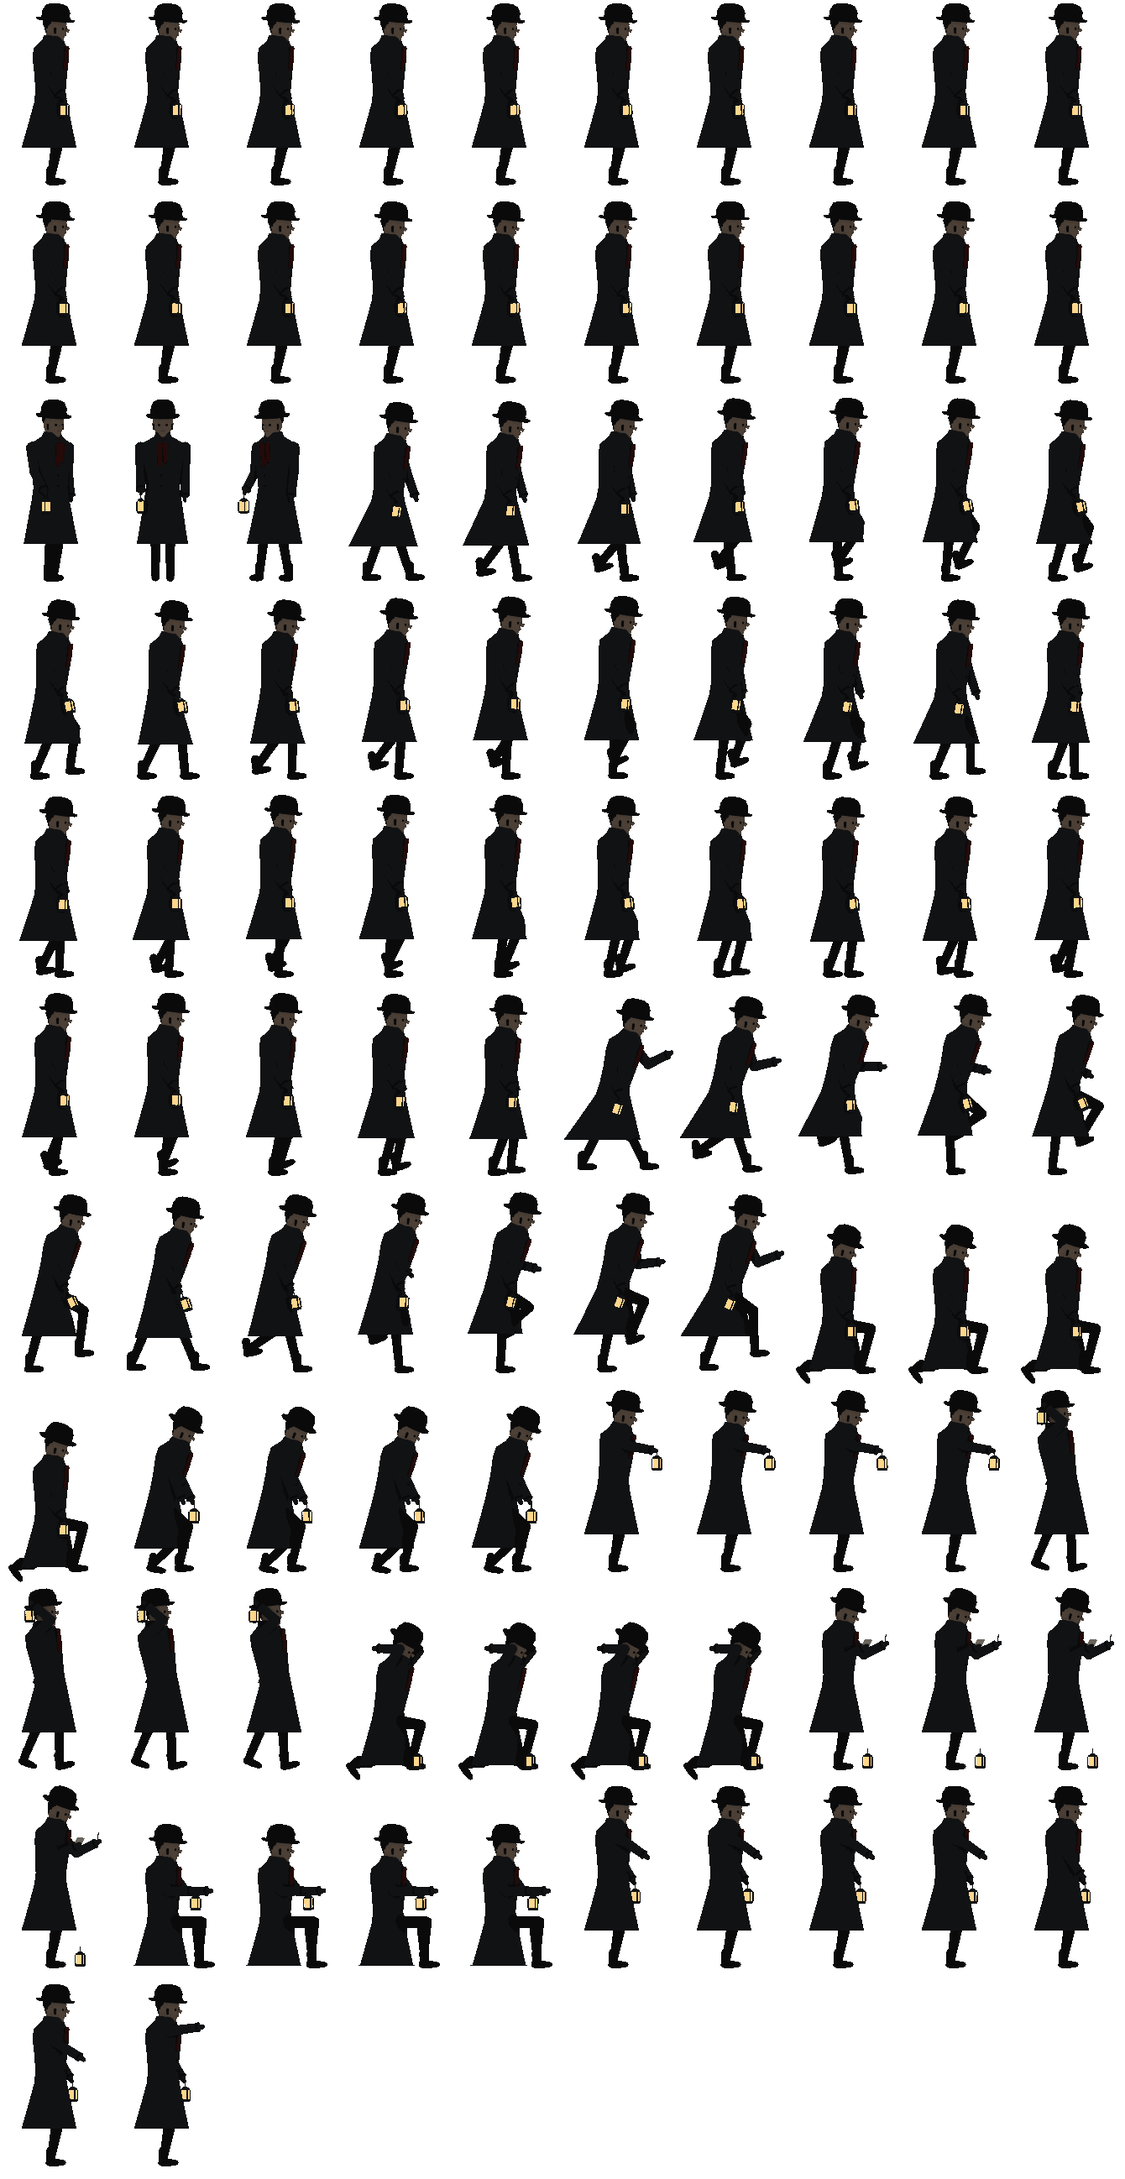
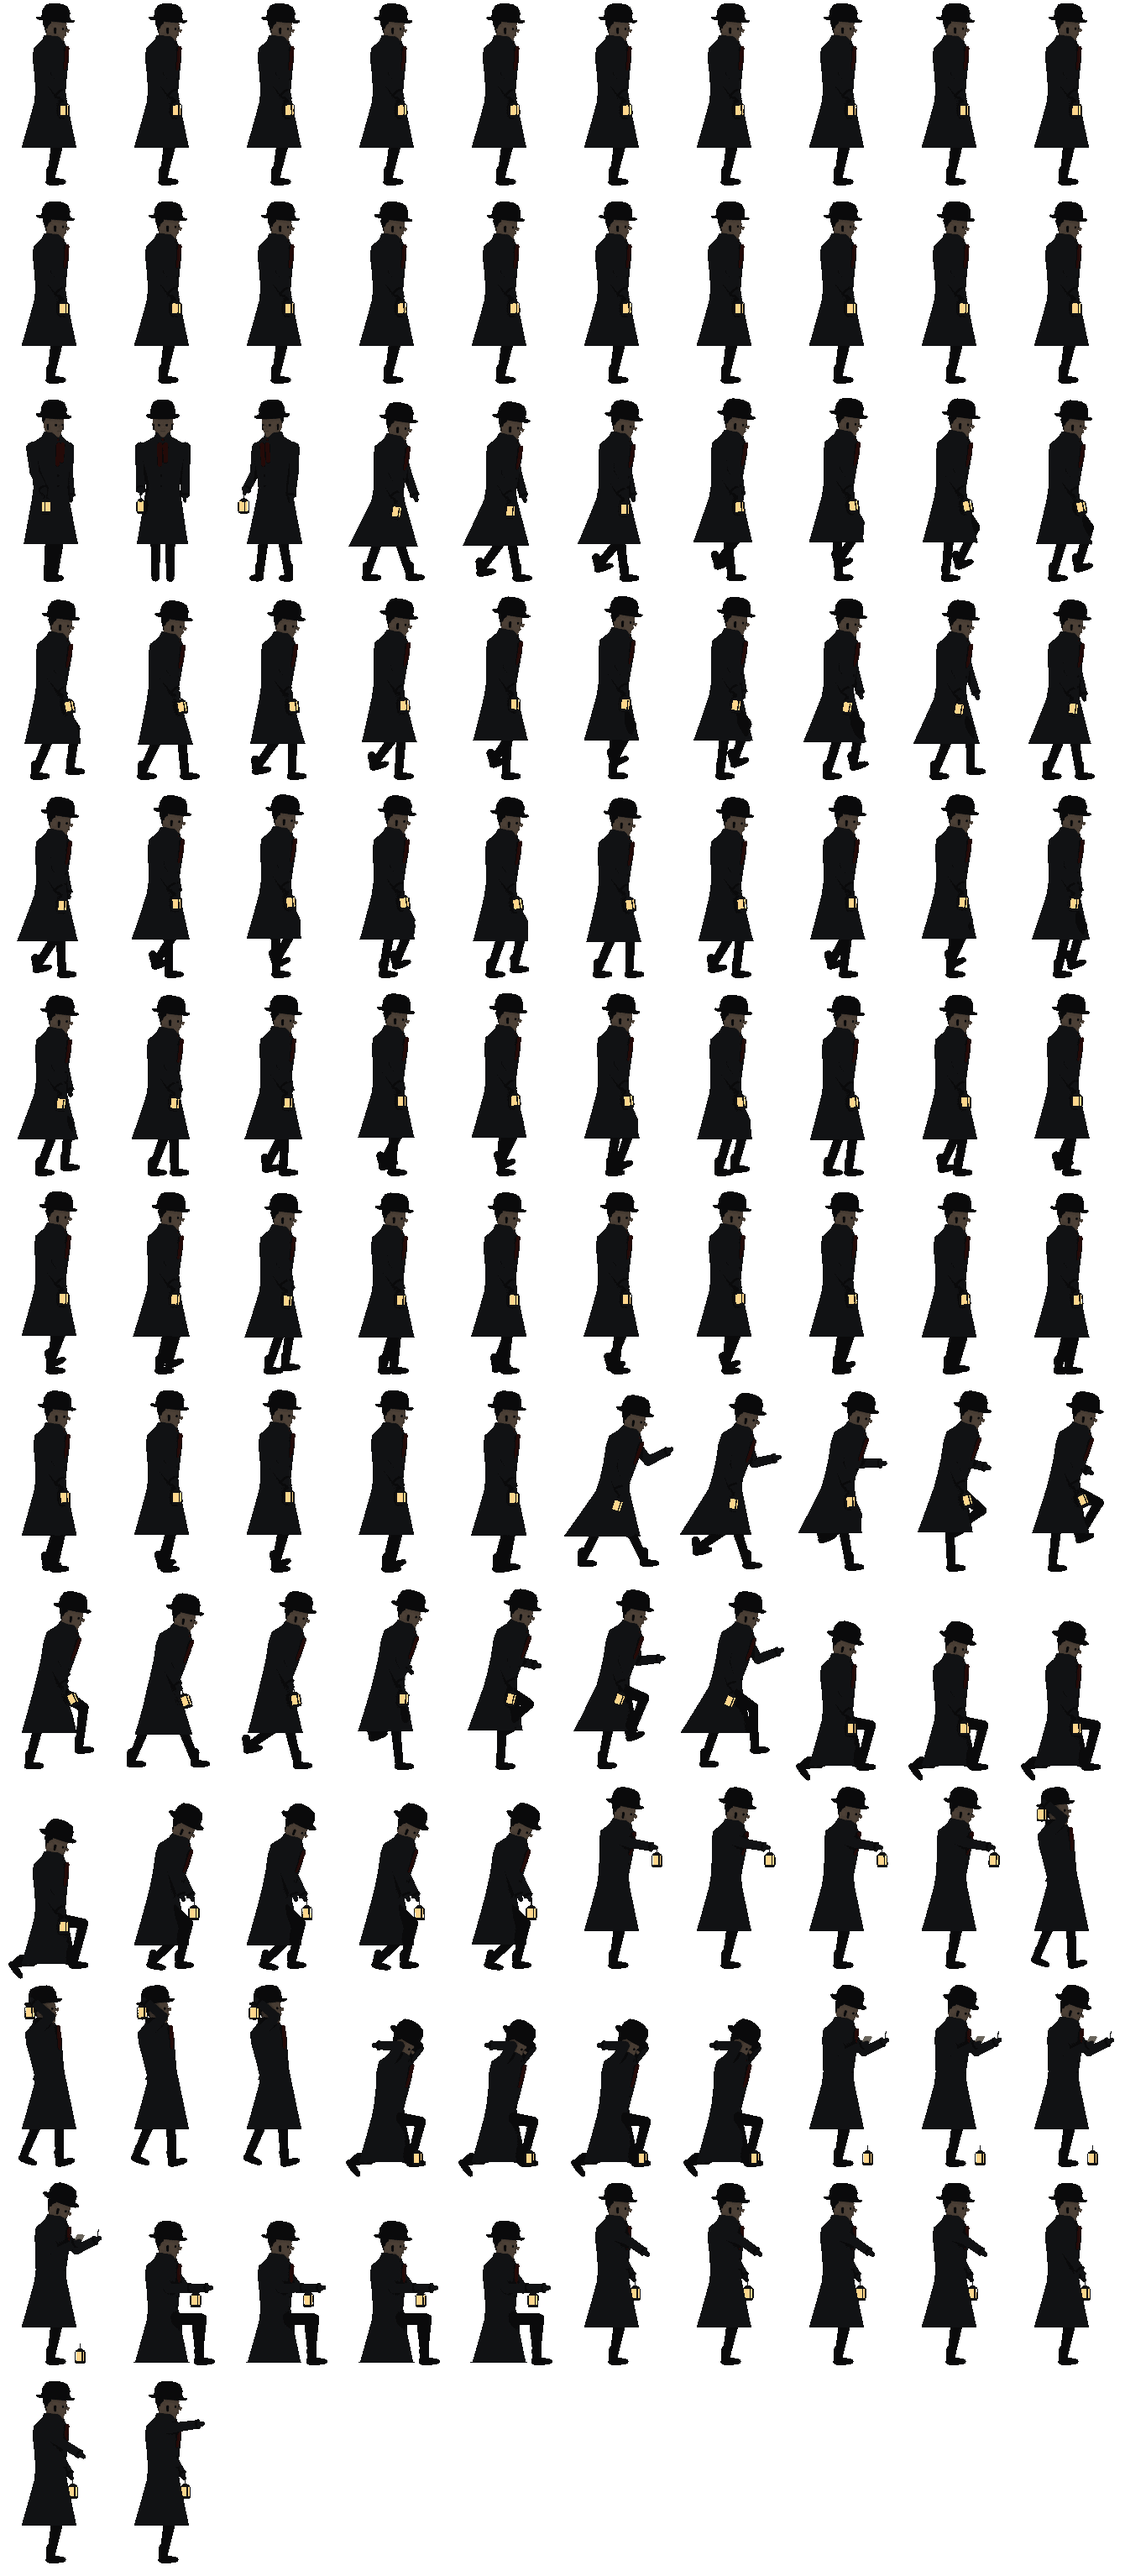
feat(characters): the mob modelled, Thomas eases in and out of his stride, the hands vision can be painted
Six neighbour figures stand, turn and scatter at a run for the nine people of the mob. Thomas
has four stride lengths, and Actor picks the one nearest how far into the walk he is, so
setting off and stopping shorten and lengthen the step instead of jumping to standing. The
hands vision uses closeups/hands.jpg when it exists (prompt in CLOSEUPS.md).

diff --git a/web/src/engine/actor.js b/web/src/engine/actor.js
@@ -18,6 +18,7 @@ const DEF = {
 const TAU = Math.PI * 2;
 const STRIDE = 50;           // distance the body travels in half a walk cycle (logical px at h = 200)
 const TURN = 0.17;           // seconds spent facing the viewer when turning round
+const GAIT = [['walk', 1], ['walk3', 0.75], ['walkh', 0.5], ['walkq', 0.25]];   // the stride lengths a model may have
 
 // a capsule between two points
 function limb(ctx, x0, y0, x1, y1, w0, w1) {
@@ -310,7 +311,14 @@ export class Actor {
       return { i: s + Math.min(n - 1, Math.floor(k * n)), flip: this.facing > 0, name: 'turn' };
     }
     const w = this.walkAmt ?? 0;
-    if (w > 0.2) return cyc((this.run || 0) > 0.5 && A.run ? 'run' : w > 0.7 ? 'walk' : 'walkh', this.phase / TAU);
+    if ((this.run || 0) > 0.5 && A.run && w > 0.2) return cyc('run', this.phase / TAU);
+    if (w > 0.12) {
+      // the stride rendered nearest to how far into the walk the actor is: setting off and stopping
+      // lengthen and shorten it a step at a time
+      let best = null;
+      for (const [n, a] of GAIT) if (A[n] && (!best || Math.abs(a - w) < Math.abs(best[1] - w))) best = [n, a];
+      if (best) return cyc(best[0], this.phase / TAU);
+    }
     return (this.talking && cyc('talk', gesture)) || cyc('idle', breath);
   }
 

diff --git a/web/src/engine/model.js b/web/src/engine/model.js
@@ -39,13 +39,16 @@ export function releaseModels(inUse) {
 }
 
 // Who is played by which model (tools/blender/cast.py). The constables share one figure; actors
-// not listed (the neighbours) stay painted. The victims are looked up by their corpse key.
+// not listed stay painted. The victims are looked up by their corpse key.
 // ?procedural paints everyone, for comparison.
 const CAST = {
   Thomas: 'thomas', Pike: 'pike', Greaves: 'greaves', Wexley: 'wexley', Viuda: 'viuda', Joven: 'joven',
   Brennan: 'brennan', Wren: 'wren', Neil: 'constable', Long: 'constable', Poli0: 'constable', Poli1: 'constable',
   Poli2: 'constable', Watkins: 'city', Agente: 'city', Morris: 'morris', Chico: 'chico', Amelia: 'amelia',
   polly: 'polly', annie: 'annie', kate: 'kate',
+  // the mob at the knackers' yard: nine neighbours, six figures
+  Vecino0: 'vecino_cap', Vecino1: 'vecino_bowler', Vecino2: 'vecino_bare', Vecino3: 'vecina_shawl', Vecino4: 'vecino_cap',
+  Vecino5: 'vecino_bowler', Vecino6: 'vecino_cap', Vecino7: 'vecina_bonnet', Vecino8: 'vecino_big',
 };
 const painted = typeof location !== 'undefined' && /[?&]procedural\b/.test(location.search || '');
 

diff --git a/web/src/art/bodies.js b/web/src/art/bodies.js
@@ -343,7 +343,9 @@ function shade_(hex) {
 // A flash of what he does not remember: gloved hands, a blade, the wet street.
 export function paintVision(ctx, W, H, kind) {
   ctx.fillStyle = '#0a0202'; ctx.fillRect(0, 0, W, H);
-  if (kind === 'hands') {
+  const pic = kind === 'hands' && closeupFor('hands');
+  if (pic) ctx.drawImage(pic, 0, 0, W, H);   // the painting (CLOSEUPS.md), under the same red vignette
+  else if (kind === 'hands') {
     pool(ctx, W / 2, H * 0.72, 380, 120, 9, false);
     for (const [x, y, rot] of [[W * 0.36, H * 0.48, 0.3], [W * 0.62, H * 0.5, Math.PI - 0.3]]) {
       ctx.save(); ctx.translate(x, y); ctx.rotate(rot);

diff --git a/web/tools/blender/figure.py b/web/tools/blender/figure.py
@@ -33,7 +33,7 @@ DEF = dict(h=200, hat='bowler', hatColor='#121316', coat='#26282b', coatLen=0.78
            sideburns=False, collarUp=False, buttons='single', belt=False, tails=False, rolled=False, patches=False,
            shawl=None, waistcoat=None, chain=False, number=False, bustle=False, lapel='#d8cfbd', notebook=False,
            gloves=None, walk=False, run=False, reach=False, poses=[], base=None, idle=8, lying=None, eyesClosed=False,
-           cover=None)
+           cover=None, talk=True, gait=((('walk', 1.0, 16), ('walkh', 0.5, 16))), runFrames=12)
 C = {**DEF, **CAST[WHO]}
 
 TAU, PI = math.tau, math.pi
@@ -712,14 +712,17 @@ elif base:
     ANIMS += [(base, 4, lambda i, n: pose(t=i / n * BREATH, P=base)),
               (base + '_talk', 8, lambda i, n: pose(t=i / n * BREATH, P=base, talk=i / n * TAU))]
 else:
-    ANIMS += [('idle', C['idle'], lambda i, n: pose(t=i / n * BREATH)),
-              ('talk', 8, lambda i, n: pose(t=i / n * GESTURE, talk=i / n * TAU)),
-              ('turn', 3, lambda i, n: pose(yaw=math.radians(55 + 35 * i)))]
+    ANIMS += [('idle', C['idle'], lambda i, n: pose(t=i / n * BREATH))]
+    if C['talk']:
+        ANIMS += [('talk', 8, lambda i, n: pose(t=i / n * GESTURE, talk=i / n * TAU))]
+    ANIMS += [('turn', 3, lambda i, n: pose(yaw=math.radians(55 + 35 * i)))]
 if C['walk'] and not C['lying']:
-    ANIMS += [('walk', 16, lambda i, n: pose(i / n * TAU, 1, 0, t=i / n)),
-              ('walkh', 16, lambda i, n: pose(i / n * TAU, 0.5, 0, t=i / n))]
+    # one cycle per stride length: Actor picks the nearest to how far into the walk it is, so starting
+    # and stopping shorten the stride step by step instead of jumping to standing
+    for name, w, frames in C['gait']:
+        ANIMS += [(name, frames, lambda i, n, w=w: pose(i / n * TAU, w, 0, t=i / n))]
 if C['run']:
-    ANIMS += [('run', 12, lambda i, n: pose(i / n * TAU, 1, 1, t=i / n))]
+    ANIMS += [('run', C['runFrames'], lambda i, n: pose(i / n * TAU, 1, 1, t=i / n))]
 for p in C['poses']:
     ANIMS += [(p, 4, lambda i, n, p=p: pose(t=i / n * BREATH, P=p))]
 if C['reach']:

diff --git a/web/tools/blender/cast.py b/web/tools/blender/cast.py
@@ -15,10 +15,13 @@ rendered. Keys match DEF in src/engine/actor.js; the extra keys say which animat
 MET = dict(h=212, hat='helmet', hatColor='#0e1018', coat='#161c30', trousers='#12151f', coatLen=0.8, flare=1.02,
            belt=True, number=True, lantern=True, lanternOn=True, moustache='#4a3424', buttons='brass')
 
+VECINO = dict(h=200, walk=True, run=True, talk=False, idle=6, gait=(('walk', 1.0, 12),), runFrames=8)
+
 CAST = {
     'thomas': dict(h=206, hat='bowler', coat='#23262b', coatLen=0.88, flare=1.2, lantern=True, collarUp=True,
                    sideburns=True, hair='#1a1410', gloves='#2a221c', scarf='#4a1612', trousers='#1a1b1e',
                    walk=True, run=True, reach=True, idle=12,
+                   gait=(('walk', 1.0, 16), ('walk3', 0.75, 12), ('walkh', 0.5, 12), ('walkq', 0.25, 12)),
                    poses=['kneel', 'take', 'inspect', 'recoil', 'clutch', 'write', 'sit', 'reach']),
     'pike': dict(h=200, hat='bowler', coat='#2c2a26', coatLen=0.9, cape=True, build=1.05, moustache='#3a2a1e',
                  buttons='double', notebook=True, hair='#3a2a1e'),
@@ -48,4 +51,12 @@ CAST = {
                   cover='#5a4a36'),
     'kate': dict(h=150, hat='bonnet', hatColor='#1a1414', skirt=True, coat='#24262a', apron='#a8a292', hair='#2a2420',
                  eyesClosed=True, lying='kate'),
+    # the neighbours in the mob at the knackers' yard: six figures for nine people, who stand, turn,
+    # and scatter at a run (knackers.js; model.js maps each Vecino to one)
+    'vecino_cap': dict(VECINO, hat='cap', coat='#2a2620', moustache='#3a2a1e'),
+    'vecino_bowler': dict(VECINO, hat='bowler', coat='#30302c', beard='#2a2018'),
+    'vecino_bare': dict(VECINO, hat='none', coat='#1f2226', hair='#3a2a1a', rolled=True),
+    'vecina_shawl': dict(VECINO, hat='shawl', skirt=True, shawl='#2e2a30', coat='#3a3026'),
+    'vecina_bonnet': dict(VECINO, hat='bonnet', skirt=True, coat='#28241f'),
+    'vecino_big': dict(VECINO, hat='cap', coat='#33302a', beard='#3a3026', build=1.2),
 }

diff --git a/web/CLOSEUPS.md b/web/CLOSEUPS.md
@@ -43,6 +43,14 @@ Dark Victorian oil painting seen from directly above, like an 1888 police record
 Scene: the dark flagstones of a city square. A thin woman of about forty-six in a black straw bonnet pushed back on her head, a black cloth jacket and a dark green chintz skirt, a white apron over it. Her face is cut: a nick through each eyelid and an inverted V on each cheek. A single deep cut across the throat and a wide pool of blood under her. Her clothes are torn open over the belly, dark with blood. One corner of the white apron has been cut away in a clean straight line, right side of the frame. Her right arm lies along her side with the wrist upturned near the top of the frame.
 ```
 
+## hands.png
+
+La visión que asalta a Thomas (un destello de lo que no recuerda): sus propias manos.
+
+```
+Dark Victorian oil painting, a sudden nightmare flash. Wide 16:9 frame, seen from the eyes of the man himself looking down at his own two gloved hands held out in front of him over wet black cobblestones at night. Dark brown leather gloves soaked and glistening with fresh blood, the cuffs of a charcoal wool greatcoat. In the left hand a slim surgeon's scalpel, the blade catching a thin line of light. Dark blood dripping onto the stones below. Deep blacks, a deep red cast over everything, heavy vignette, visible brushwork, feverish and unsteady. No face, no other people, no text, no frame.
+```
+
 ## Si el generador se niega
 
 Algunos rechazan las heridas. Prueba a quitar las frases de las heridas y deja la sangre: el texto del
